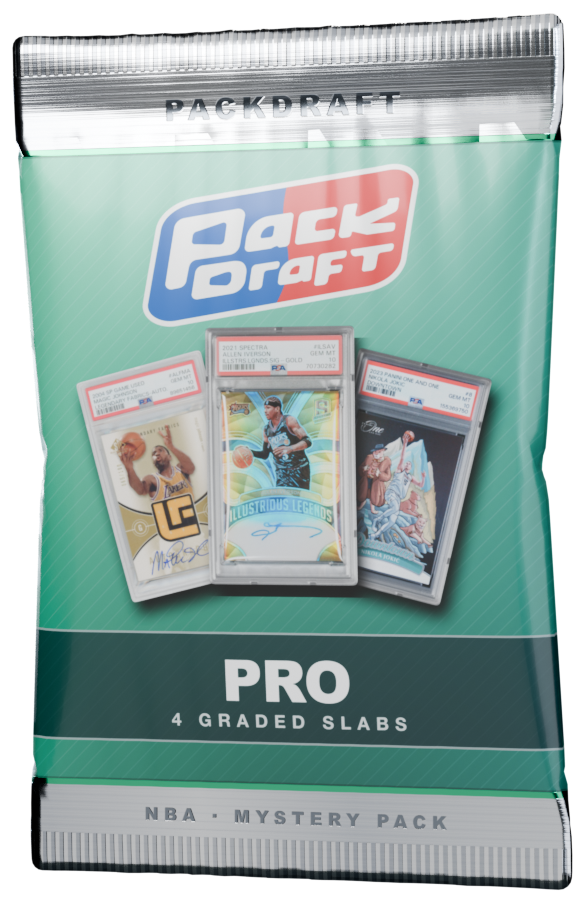
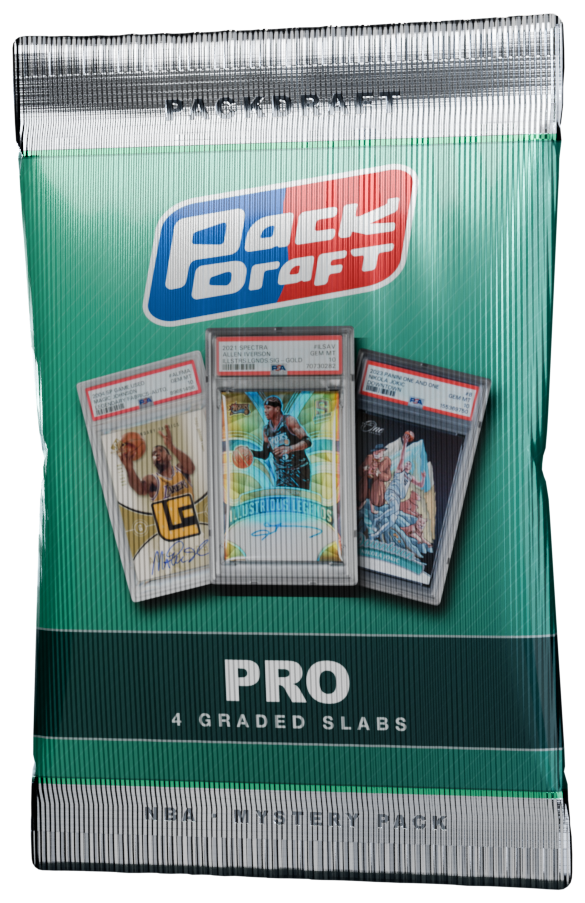
Pack renders: crimped chrome foil across the whole wrapper

diff --git a/src/app/packs/VendingMachine.tsx b/src/app/packs/VendingMachine.tsx
@@ -22,7 +22,7 @@ function PackArt({ p, big, md, slabs }: { p: PackType; big?: boolean; md?: boole
   const [w, h] = PACK_SIZE[big ? "big" : md ? "md" : "sm"];
   return (
     // eslint-disable-next-line @next/next/no-img-element
-    <img src={`/packs/${p.id}.png?v=2`} alt={p.name} width={w} height={h} draggable={false} onError={() => setFailed(true)}
+    <img src={`/packs/${p.id}.png?v=3`} alt={p.name} width={w} height={h} draggable={false} onError={() => setFailed(true)}
       className="block select-none object-contain" style={{ width: w, height: h, filter: "drop-shadow(0 14px 18px rgba(0,0,0,.45))" }} />
   );
 }

diff --git a/scripts/pack-renders/render.py b/scripts/pack-renders/render.py
@@ -82,6 +82,7 @@ if hdr:
 nt.links.new(bg.outputs["Background"], outn.inputs["Surface"])
 
 # 4. Foil wrapper materials.
+CRIMP_SCALE = 38.0
 def setup(mat):
     n = mat.node_tree.nodes
     bsdf = next(x for x in n if x.type == "BSDF_PRINCIPLED")
@@ -103,8 +104,8 @@ def setup(mat):
     hi = node("ShaderNodeMath", "hi", operation="GREATER_THAN"); hi.inputs[1].default_value = 0.834
     lo = node("ShaderNodeMath", "lo", operation="LESS_THAN"); lo.inputs[1].default_value = 0.14
     mask = node("ShaderNodeMath", "mask", operation="MAXIMUM")
-    met = node("ShaderNodeMapRange", "metal"); met.inputs["To Min"].default_value = 0.2; met.inputs["To Max"].default_value = 1.0
-    rough = node("ShaderNodeMapRange", "rough"); rough.inputs["To Min"].default_value = 0.3; rough.inputs["To Max"].default_value = 0.17
+    met = node("ShaderNodeMapRange", "metal"); met.inputs["To Min"].default_value = 0.75; met.inputs["To Max"].default_value = 1.0
+    rough = node("ShaderNodeMapRange", "rough"); rough.inputs["To Min"].default_value = 0.2; rough.inputs["To Max"].default_value = 0.17
     bump = node("ShaderNodeBump", "bump"); bump.inputs["Distance"].default_value = 0.0004
     bstr = node("ShaderNodeMath", "bstr", operation="MULTIPLY"); bstr.inputs[1].default_value = 0.25
     L = nt.links.new
@@ -113,7 +114,14 @@ def setup(mat):
     L(hi.outputs[0], mask.inputs[0]); L(lo.outputs[0], mask.inputs[1])
     L(mask.outputs[0], met.inputs["Value"]); L(mask.outputs[0], rough.inputs["Value"]); L(mask.outputs[0], bstr.inputs[0])
     L(met.outputs["Result"], bsdf.inputs["Metallic"]); L(rough.outputs["Result"], bsdf.inputs["Roughness"])
-    L(bstr.outputs[0], bump.inputs["Strength"]); L(tex.outputs["Color"], bump.inputs["Height"]); L(bump.outputs["Normal"], bsdf.inputs["Normal"])
+    L(bstr.outputs[0], bump.inputs["Strength"]); L(tex.outputs["Color"], bump.inputs["Height"])
+    # Crimp ridges across the whole wrapper: fine vertical bands feeding a second bump.
+    wave = node("ShaderNodeTexWave", "wave", wave_type="BANDS", bands_direction="X", wave_profile="SIN")
+    wave.inputs["Scale"].default_value = CRIMP_SCALE
+    wave.inputs["Distortion"].default_value = 0
+    crimp = node("ShaderNodeBump", "crimp"); crimp.inputs["Strength"].default_value = 0.35; crimp.inputs["Distance"].default_value = 0.0003
+    L(uv.outputs["UV"], wave.inputs["Vector"]); L(wave.outputs["Color"], crimp.inputs["Height"])
+    L(crimp.outputs["Normal"], bump.inputs["Normal"]); L(bump.outputs["Normal"], bsdf.inputs["Normal"])
     return tex
 tf, tb = setup(bpy.data.materials["M_PackFront"]), setup(bpy.data.materials["M_PackBack"])
 
